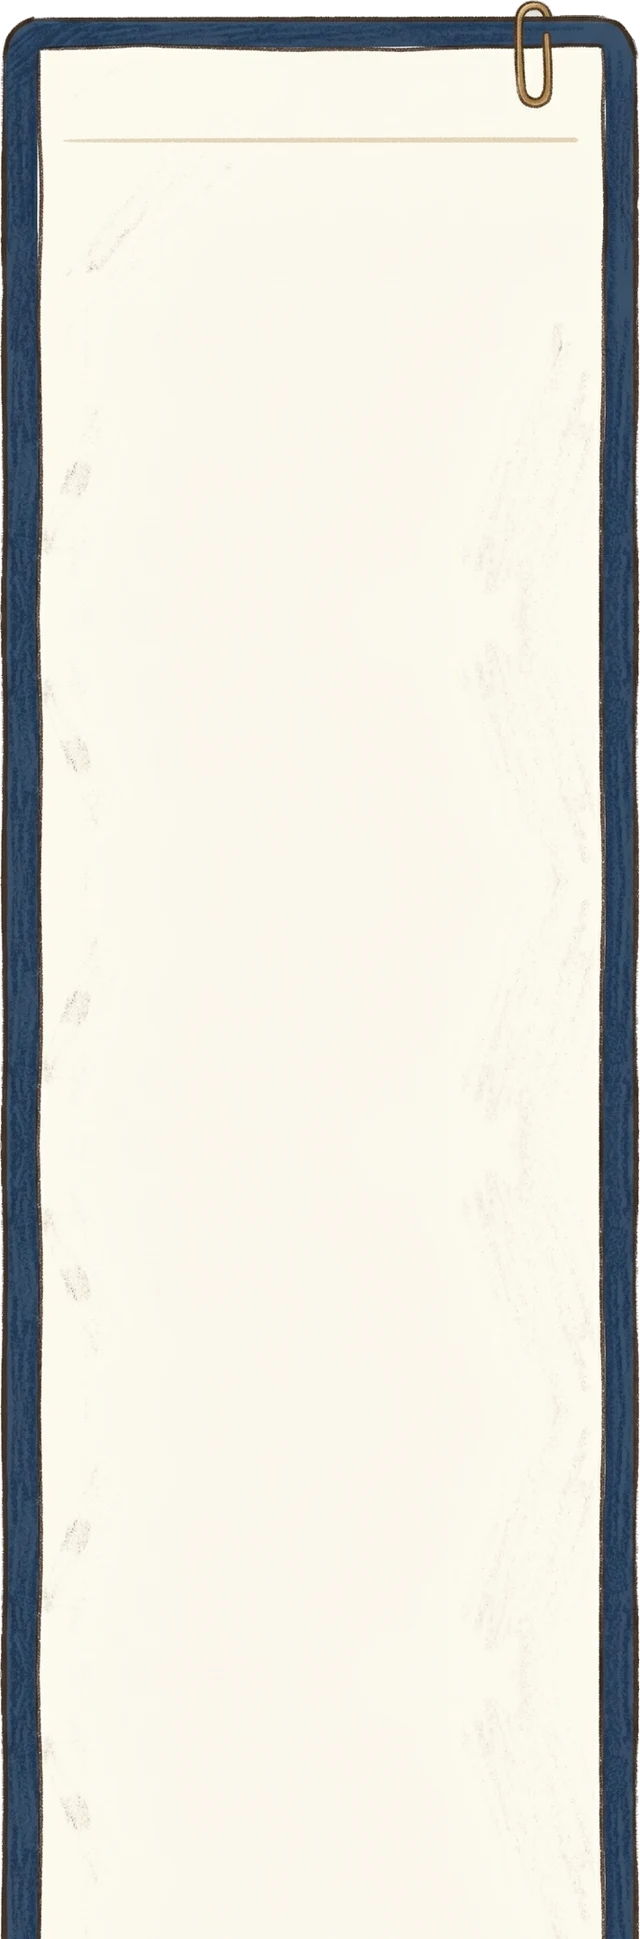
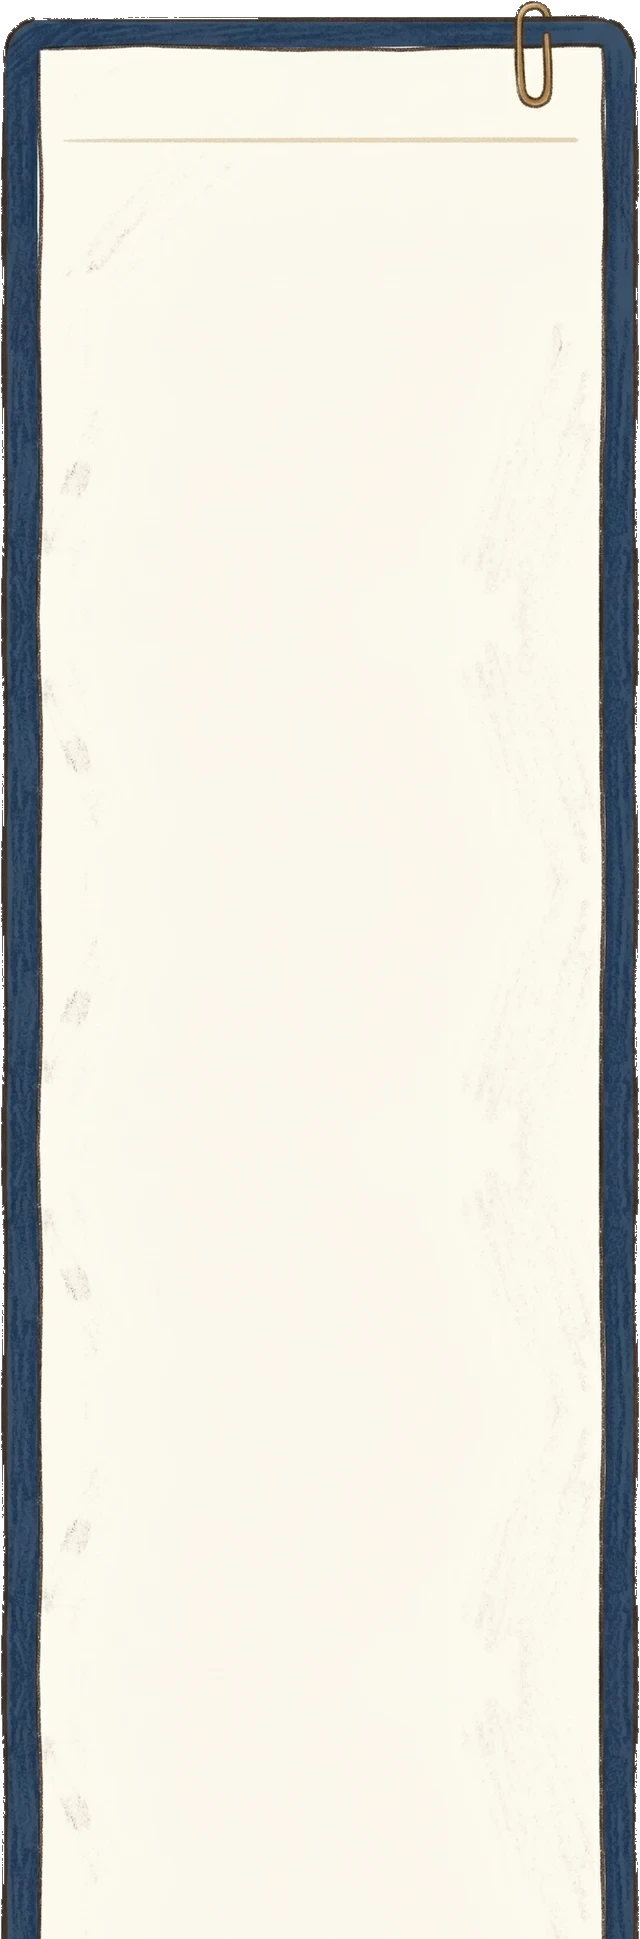
Clean the notebook panel cut-out: remove the grey halo and the background inside the clip loop

diff --git a/assets/ui/README.md b/assets/ui/README.md
@@ -2,7 +2,7 @@
 
 ## 적용 중
 
-- `casefile-panel.webp` (640×1939): 노트 패널 배경(2026-10-16 교체). 남색 서류철 위에 크림색 서류 한 장, 오른쪽 위 클립. `casefile-higgsfield-original.png`의 단색 배경을 로컬에서 지우고(`casefile-nobg.png`, 크레딧 없음), y 400–700 구간을 위아래로 뒤집어 가며 이어 붙여 길게 만들었다.
+- `casefile-panel.webp` (640×1939): 노트 패널 배경(2026-10-16 교체). 남색 서류철 위에 크림색 서류 한 장, 오른쪽 위 클립. `casefile-higgsfield-original.png`의 단색 배경을 로컬에서 지우고(`casefile-nobg.png`, 크레딧 없음), y 400–700 구간을 위아래로 뒤집어 가며 이어 붙여 길게 만들었다. 이어서 바깥 회색 테두리 띠와 클립 고리 안쪽에 남은 배경색을 로컬에서 다시 지웠다(테두리 바깥에서 이어지는 밝은 무채색 픽셀 제거, 경계 1px을 어둡게 다듬음).
   - 남색은 나무 바닥·타일·풀밭 같은 따뜻한 배경과 대비되도록 고른 색이다.
   - CSS는 그림 폭 기준 %로 맞춘다: 서류 윗변 7.9%, 머리 띠 높이 13.6%, 서류 폭 6.5%–93.8%. 클립(약 81–86%)을 피해 탭은 오른쪽 22%까지만 놓는다.
 - 아래 `notebook-panel.webp`(스프링 수첩)는 사용자 피드백으로 교체되어 미사용이다.
